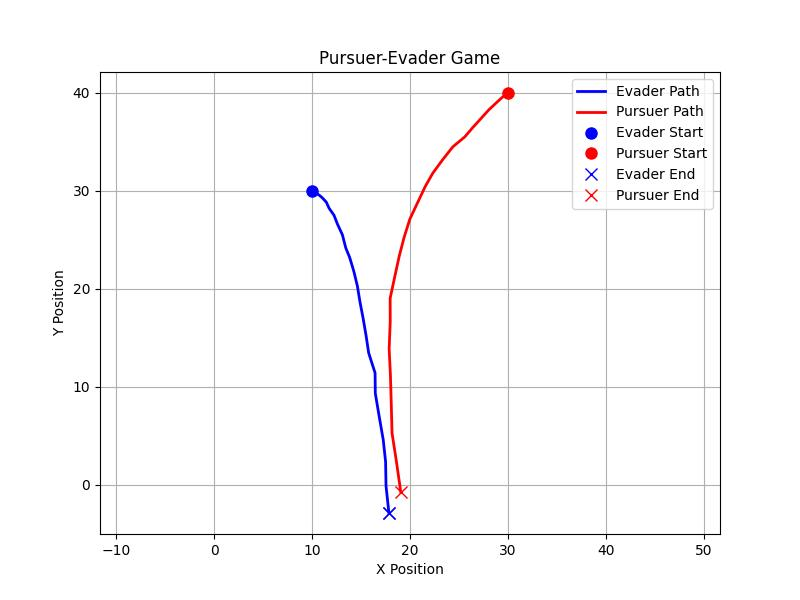
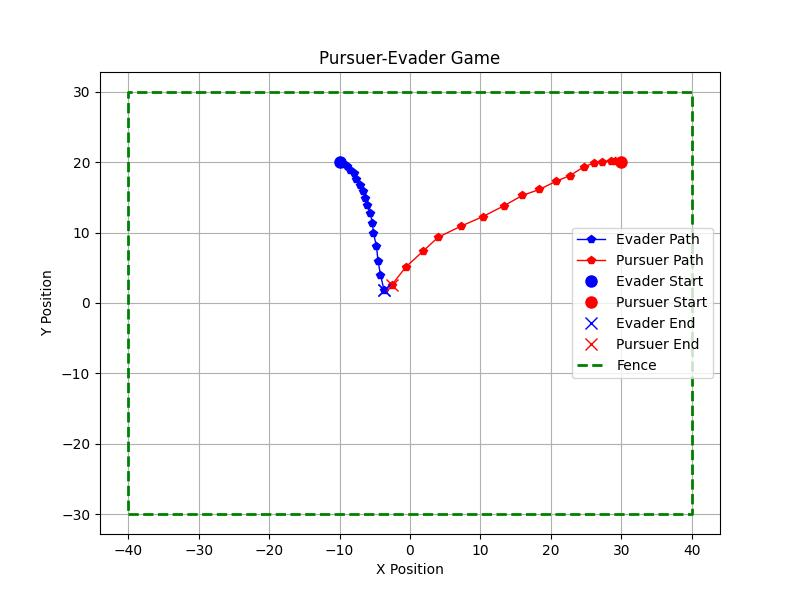
modify running logic

diff --git a/Gameloop.py b/Gameloop.py
@@ -1,21 +1,26 @@
 import numpy as np
 import matplotlib.pyplot as plt
 from scipy.linalg import cholesky, solve_triangular
+from qpsolvers import solve_qp
 
 # Parameters
 Ts = 0.1  # Time step
 m = 1     # Mass
 time_frames = 60
-capture_radius = 2.5  # Distance at which pursuer catches evader
+capture_radius = 2  # Distance at which pursuer catches evader
+fence_width = 80    # x axis length
+fence_height = 60   # y axis length
+N = 7
 
 # Initialize state
 x_evader = np.zeros((4, time_frames))
 x_pursuer = np.zeros((4, time_frames))
-x_evader[:, 0] = np.array([10, 30, 3, 0])  # Initial state [x, y, vx, vy]
-x_pursuer[:, 0] = np.array([30, 40, -3, -3])
+x_evader[:, 0] = np.array([-10, 20, 3, 0])  # Initial state [x, y, vx, vy]
+x_pursuer[:, 0] = np.array([30, 20, -3, 0])
 
-a_evader = np.array([0, -5])  # Fixed acceleration for evader
-a_pursuer = np.zeros(2)  # Initialize pursuer's acceleration
+u_evader = np.array([0, -5])  # Fixed acceleration for evader
+u_pursuer = np.zeros(2)  # Initialize pursuer's acceleration
+
 
 # System dynamics matrices
 A = np.array([
@@ -30,9 +35,8 @@ B[2, 0] = Ts/m
 B[3, 1] = Ts/m
 
 # MPC Parameters
-Q = np.diag([10, 10, 1, 1])
+Q = np.diag([20, 20, 1, 1])
 R = np.diag([1, 1])
-N = 10
 
 # Constraint matrices
 E = np.vstack([np.eye(2*N), -np.eye(2*N)])
@@ -85,7 +89,7 @@ def mpc(x0, target, N, A, B, Q, R, E, W):
     
     # Active set solver emulation (simplified for Python conversion)
     # Note: Full active set solver implementation would be more complex
-    u = solve_qp(L, F @ (x0 - target), E, W)
+    u = solve_qp(L, F @ (x0 - target), E, W, solver="cvxopt")
     
     # Prediction steps
     uMPC = u[:2]  # First control input
@@ -96,35 +100,6 @@ def mpc(x0, target, N, A, B, Q, R, E, W):
         xMPC[:, i+1] = A @ xMPC[:, i] + B @ u[i*2:(i+1)*2]
     
     return uMPC, xMPC
-
-def solve_qp(H, f, A_ineq=None, b_ineq=None):
-    """
-    Simplified Quadratic Programming solver - this is a placeholder
-    A full implementation would use an active set or interior point method
-    
-    This simplified version just uses scipy's minimize function
-    """
-    from scipy.optimize import minimize
-    
-    n = f.shape[0]
-    
-    def objective(x):
-        return 0.5 * x.T @ H @ x + f.T @ x
-    
-    # Define constraints
-    constraints = []
-    if A_ineq is not None and b_ineq is not None:
-        for i in range(A_ineq.shape[0]):
-            constraints.append({
-                'type': 'ineq', 
-                'fun': lambda x, i=i: b_ineq[i] - A_ineq[i, :] @ x
-            })
-    
-    # Initial guess
-    x0 = np.zeros(n)
-    
-    result = minimize(objective, x0, constraints=constraints, method='SLSQP')
-    return result.x
 
 def ekf_func(z_k, x_kminus, P, Qk, Rk, acc_x_k, acc_y_k, dt_k):
     """
@@ -158,6 +133,9 @@ def ekf_func(z_k, x_kminus, P, Qk, Rk, acc_x_k, acc_y_k, dt_k):
 # Game loop
 captured = False
 capture_time = None
+capture_possible = False
+escaped = False
+escape_time = None
 
 for t in range(time_frames-1):
     # Current states
@@ -167,62 +145,74 @@ for t in range(time_frames-1):
     # Measurements 
     z_evader = evader_current[0:2] + 0.2 * np.random.randn(2)
     z_pursuer = pursuer_current[0:2] + 0.2 * np.random.randn(2)
-    x_est_evader = ekf_func(z_evader, x_evader[:, t], P, Qk, Rk, a_evader[0], a_evader[1], Ts)[0]
-    x_est_pursuer = ekf_func(z_pursuer, x_pursuer[:, t], P, Qk, Rk, a_pursuer[0], a_pursuer[1], Ts)[0]
-
-    # Update evader state using fixed acceleration
-    u_evader = a_evader
-    x_evader[:, t+1] = A @ x_est_evader + B @ u_evader
-    
-    # Estimate evader's future trajectory for pursuer planning
-    evader_pred = x_evader[:, t+1]
-    evader_future = np.zeros((4, N))
-    evader_future[:, 0] = evader_pred
-    for i in range(1, N):
-        evader_future[:, i] = A @ evader_future[:, i-1] + B @ u_evader
-    
-    # Determine optimal interception point for pursuer
-    optimal_target = evader_future[:, N-1]
-    
-    # Check if capture is possible within prediction horizon
-    capture_possible = False
-    for step in range(N):
-        distance = np.linalg.norm(evader_future[0:2, step] - x_est_pursuer[0:2])
-        time_to_reach = (step + 1) * Ts
-        if distance / time_to_reach < 10:  # If pursuer can reach evader position
-            optimal_target = evader_future[:, step]
-            capture_possible = True
-            break
-
-    if not capture_possible:
-        optimal_target = evader_future[:, N-1]
-    
-    # Use MPC to compute optimal control for pursuer
-    u_pursuer, x_pred = mpc(x_est_pursuer, optimal_target, N, A, B, Q, R, E, W)
+    x_est_evader = ekf_func(z_evader, x_evader[:, t], P, Qk, Rk, u_evader[0], u_evader[1], Ts)[0]
+    x_est_pursuer = ekf_func(z_pursuer, x_pursuer[:, t], P, Qk, Rk, u_pursuer[0], u_pursuer[1], Ts)[0]
     x_pursuer[:, t+1] = A @ x_est_pursuer + B @ u_pursuer
-    
+    x_evader[:, t+1] = A @ x_est_evader + B @ u_evader
+
+    # Evader's future trajectory
+    x_future_evader = np.zeros((4, N))
+    x_future_evader[:, 0] = x_evader[:, t+1]
+    x_future_pursuer = np.zeros((4, N))
+    x_future_pursuer[:, 0] = x_pursuer[:, t+1]
+
+    for i in range(1, N):
+        x_future_evader[:, i] = A @ x_future_evader[:, i-1] + B @ u_evader
+        x_future_pursuer[:, i] = A @ x_future_pursuer[:, i-1] + B @ u_pursuer
+
+    # Optimal interception point for pursuer
+    optimal_target_pursuer = x_est_evader
+
+    scan_radius_pursuer = np.linalg.norm(x_future_pursuer[0:2, -1] - x_est_pursuer[0:2])
+    capture_distance_future = np.linalg.norm(x_future_evader[0:2, -1] - x_est_pursuer[0:2])
+    if capture_distance_future <= scan_radius_pursuer:  # If pursuer can reach evader position
+        optimal_target_pursuer = x_future_evader[:, -1]  
+        capture_possible = True
+        print("Capture possible at step", t)
+
+    # Compute optimal control for pursuer
+    u_pursuer, x_pursuer = mpc(x_est_pursuer, optimal_target_pursuer, N, A, B, Q, R, E, W)
+
     # Check for capture
-    distance = np.linalg.norm(x_evader[0:2, t+1] - x_pursuer[0:2, t+1])
-    if distance < capture_radius:
-        print(f'Evader captured at time step {t+1}!')
+    capture_distance = np.linalg.norm(x_evader[0:2, t] - x_pursuer[0:2, t])
+    if capture_distance < capture_radius:
+        print(f'Evader captured at time step {t}!')
         captured = True
-        capture_time = t+1
+        capture_time = t
+        break
+
+    # check for evader out of fence
+    if not (-fence_width/2 <= x_evader[0, t] <= fence_width/2 and -fence_height/2 <= x_evader[1, t] <= fence_height/2):
+        print(f'Evader escaped at time step {t}!')
+        escaped = True
+        escape_time = t+1
         break
 
 # Visualization
-last_t = capture_time if captured else time_frames-1
+if captured or escaped:
+    if escaped:
+        last_t = escape_time
+    else:
+        last_t = capture_time
+else:
+    last_t = time_frames-1
 
 plt.figure(figsize=(8, 6))
-plt.plot(x_evader[0, :last_t+1], x_evader[1, :last_t+1], 'b-', linewidth=2, label='Evader Path')
-plt.plot(x_pursuer[0, :last_t+1], x_pursuer[1, :last_t+1], 'r-', linewidth=2, label='Pursuer Path')
+plt.plot(x_evader[0, :last_t+1], x_evader[1, :last_t+1], 'bp-', linewidth=1, label='Evader Path')
+plt.plot(x_pursuer[0, :last_t+1], x_pursuer[1, :last_t+1], 'rp-', linewidth=1, label='Pursuer Path')
 plt.plot(x_evader[0, 0], x_evader[1, 0], 'bo', markersize=8, markerfacecolor='b', label='Evader Start')
 plt.plot(x_pursuer[0, 0], x_pursuer[1, 0], 'ro', markersize=8, markerfacecolor='r', label='Pursuer Start')
 plt.plot(x_evader[0, last_t], x_evader[1, last_t], 'bx', markersize=8, linewidth=2, label='Evader End')
 plt.plot(x_pursuer[0, last_t], x_pursuer[1, last_t], 'rx', markersize=8, linewidth=2, label='Pursuer End')
 
+# Plot fence
+fence_x = [-fence_width/2, fence_width/2, fence_width/2, -fence_width/2, -fence_width/2]
+fence_y = [-fence_height/2, -fence_height/2, fence_height/2, fence_height/2, -fence_height/2]
+plt.plot(fence_x, fence_y, 'g--', linewidth=2, label='Fence')
+
 
 # Draw capture if it happened
-if captured:
+if captured or escaped:
     plt.plot(x_evader[0, last_t], x_evader[1, last_t], 'bx', markersize=8)
 
 plt.title('Pursuer-Evader Game')
@@ -233,4 +223,3 @@ plt.grid(True)
 plt.axis('equal')
 plt.show()
 plt.savefig('pursuer_evader_game.jpg')
-
